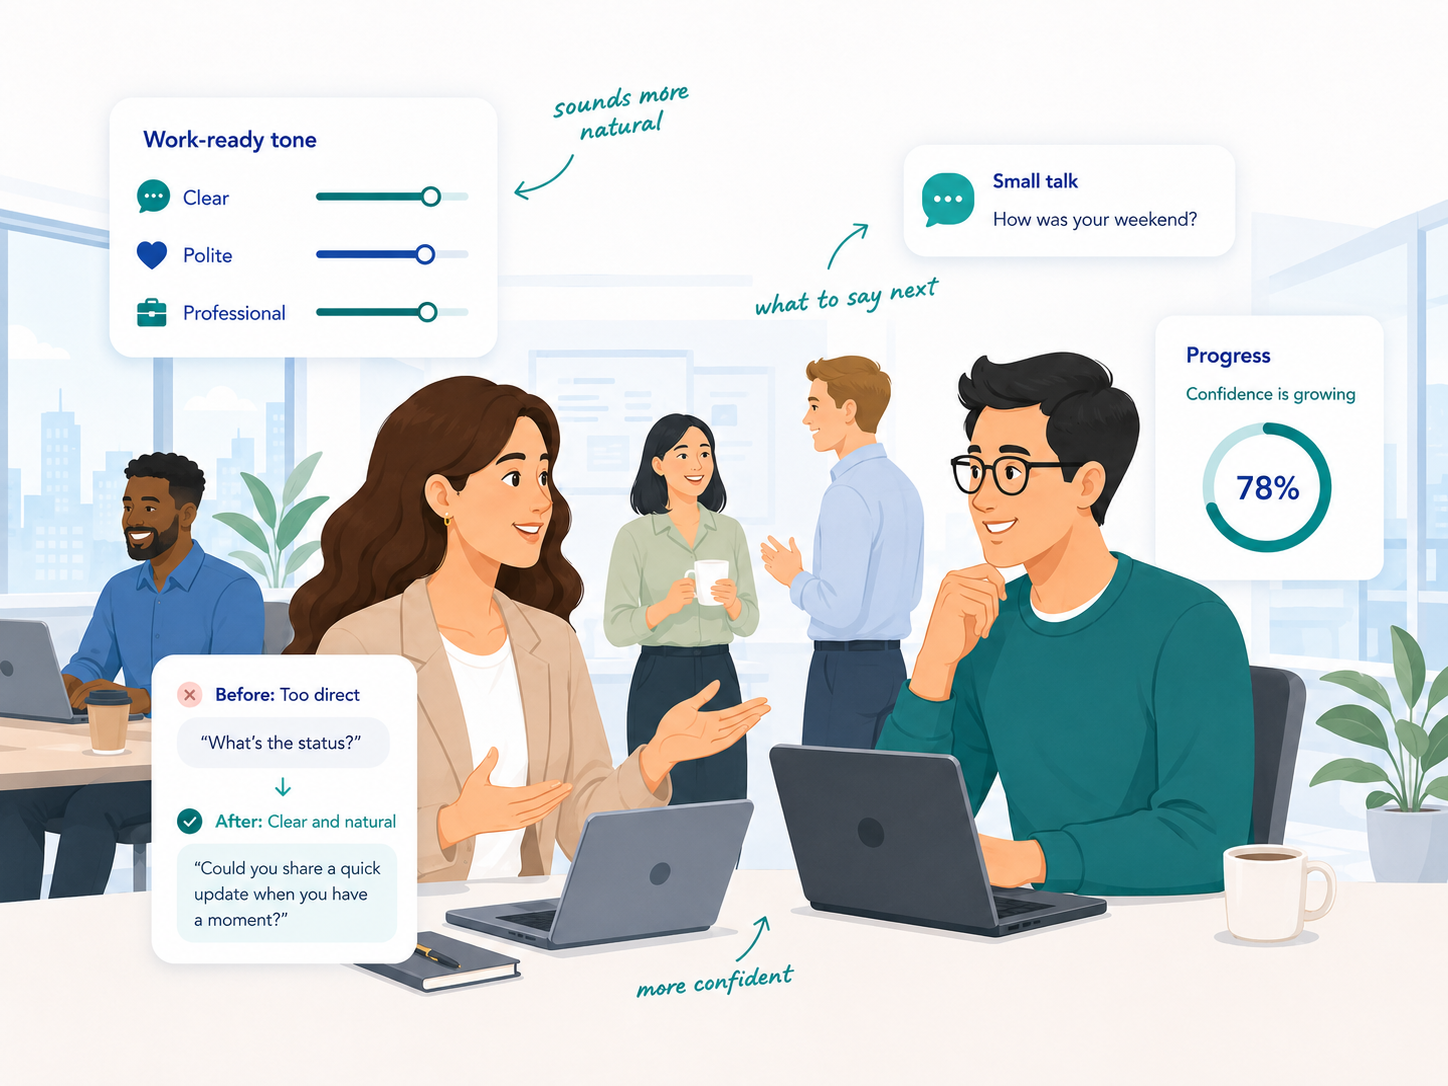
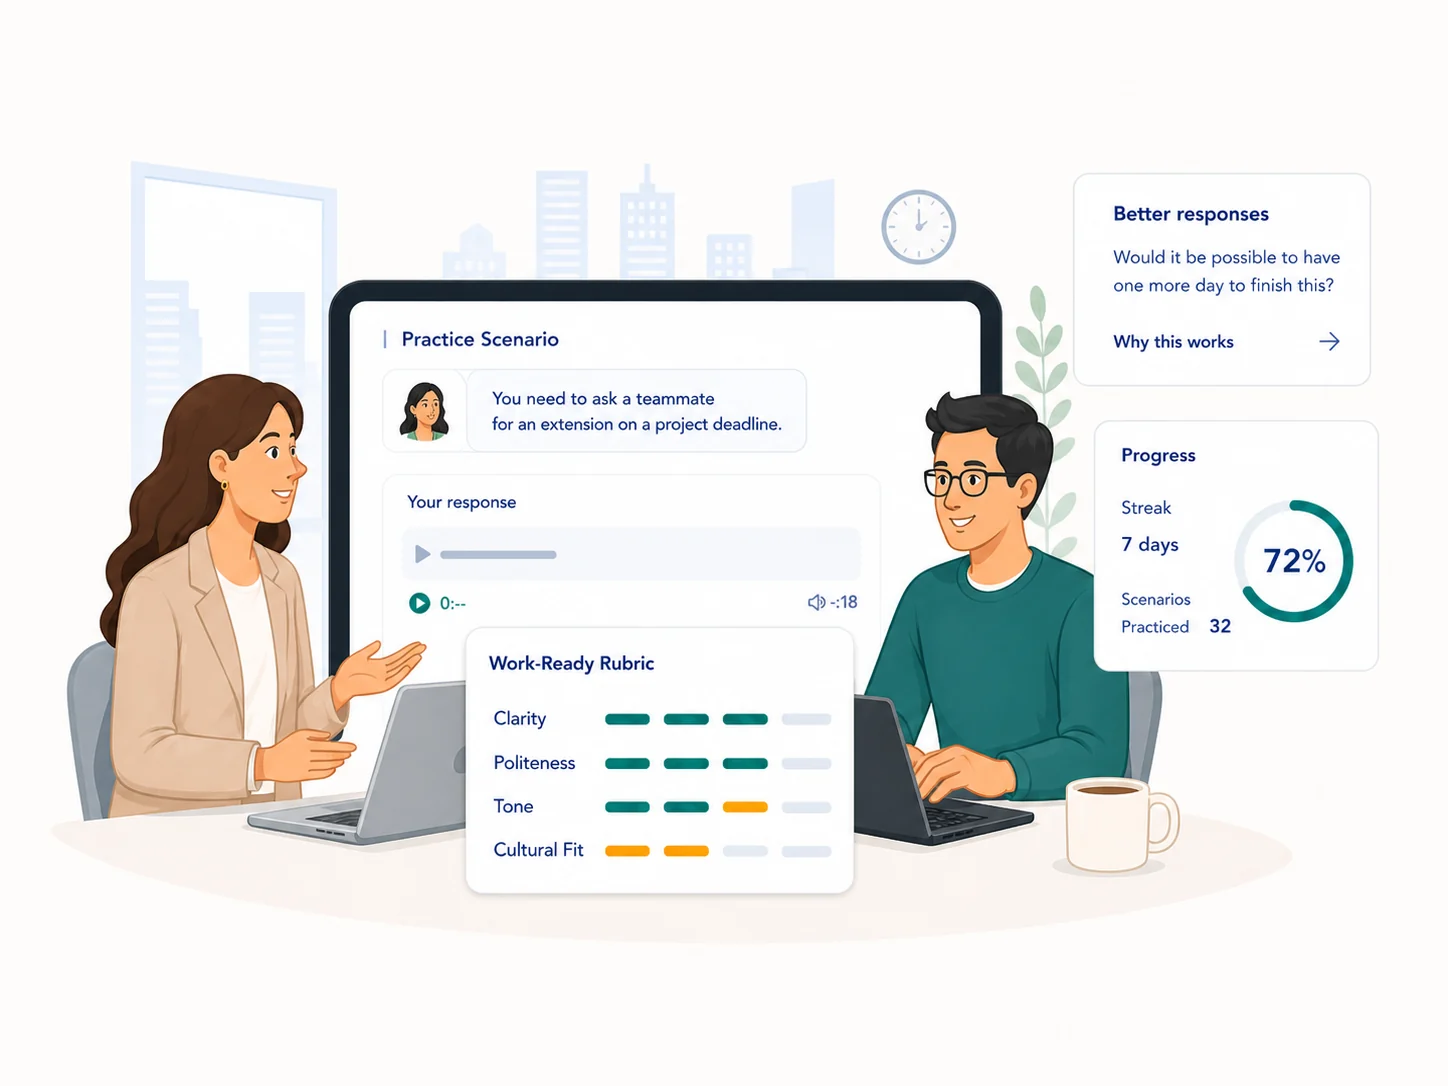
Add files via upload

diff --git a/index.html b/index.html
@@ -4,7 +4,7 @@
   <meta charset="utf-8">
   <meta name="viewport" content="width=device-width, initial-scale=1">
   <title>Workwise English | Workplace English Practice with Culture Notes</title>
-  <meta name="description" content="Practice workplace English for North American work culture. Learn what people really mean, what to say next, soft feedback, small talk, work-ready tone, and culture notes. Free for learners.">
+  <meta name="description" content="Practice workplace English for North American work culture. Learn what people really mean, what to say next, soft feedback, small talk, work-ready tone, and culture notes. Free for learners, no email login.">
   <link rel="canonical" href="https://workwise-english.vercel.app/">
   <meta name="robots" content="index,follow">
   <meta property="og:title" content="Workwise English">
@@ -73,6 +73,14 @@
           "@type": "Answer",
           "text": "Progress is saved in your browser. Use Export / Import if you want to back up or move your learning history."
         }
+      },
+      {
+        "@type": "Question",
+        "name": "Does Workwise English record or upload my voice?",
+        "acceptedAnswer": {
+          "@type": "Answer",
+          "text": "No. Workwise English includes text-to-speech for listening and shadowing, but it does not require voice upload."
+        }
       }
     ]
   }
@@ -123,6 +131,11 @@
       <div class="benefit-card"><span>🎧</span><strong>Text-to-Speech / Shadowing</strong></div>
       <div class="benefit-card"><span>✅</span><strong>Built from real workplace experience</strong></div>
     </div>
+    <div class="container">
+      <p class="definition-line">
+        Workwise English is a free workplace English practice app for learning North American workplace culture, soft feedback, and what to say next.
+      </p>
+    </div>
   </section>
 
   <section class="section section-sand" id="problems" aria-labelledby="problems-title">
@@ -145,7 +158,8 @@
       <div>
         <div class="eyebrow">Culture-first workplace English</div>
         <h2 id="difference-title">AI can correct a sentence. Workwise helps you handle the conversation.</h2>
-        <p>Practice small talk, softer requests, meetings, soft feedback, sandwich-style feedback, follow-ups, and what to say next in North American workplaces.</p>
+        <p>Practice small talk, softer requests, meetings, soft feedback, feedback responses, follow-ups, and what to say next in North American workplaces.</p>
+        <p class="small-trust-note">Built around real workplace communication challenges — not fake textbook conversations.</p>
       </div>
       <div class="feature-grid">
         <div class="mini-card"><div class="mini-icon">🧭</div><h3>What people mean</h3><p>Learn the hidden meaning behind workplace phrases and feedback.</p></div>
@@ -287,6 +301,10 @@
           <summary>How is my progress saved?</summary>
           <p>Your progress is saved in this browser. Use Export / Import if you want to back up your learning data or move it to another device.</p>
         </details>
+        <details>
+          <summary>Does Workwise English record or upload my voice?</summary>
+          <p>No. Workwise English includes text-to-speech for listening and shadowing, but it does not require voice upload.</p>
+        </details>
       </div>
     </div>
   </section>
@@ -296,11 +314,12 @@
       <div class="inner">
         <div>
           <h2>Start practicing workplace English today.</h2>
-          <p>One real scenario a day. Culture notes, model answers, text-to-speech, review, and progress tracking — free for learners.</p>
+          <p>One real scenario a day. Culture notes, model answers, text-to-speech, and review — free for learners.</p>
           <div class="cta-row">
             <a class="btn btn-primary" href="/app/" style="background:#fff;color:var(--teal-dark)">Start Free</a>
             <a class="btn btn-secondary" href="/practice/" style="background:transparent;color:#fff;border-color:rgba(255,255,255,.5)">Try a Scenario</a>
           </div>
+          <p class="cta-note">No signup. No credit card. Opens in your browser.</p>
         </div>
         <img src="/assets/images/lp/workwise-english-final-cta-workplace-practice.webp" alt="Professionals using Workwise English to practice workplace English and review useful phrases" width="900" height="670" loading="lazy">
       </div>

diff --git a/assets/css/style.css b/assets/css/style.css
@@ -1073,3 +1073,194 @@ h1, h2 {
     padding: 54px 0;
   }
 }
+
+
+/* ===== v4.1 production polish: image sizing, CTA balance, mobile first-view ===== */
+.definition-line {
+  max-width: 980px;
+  margin: 22px auto 0;
+  padding: 16px 20px;
+  border: 1px solid rgba(16,35,74,.08);
+  border-radius: 18px;
+  background: rgba(255,255,255,.76);
+  box-shadow: 0 12px 34px rgba(16,35,74,.045);
+  color: #43546f;
+  font-size: 15px;
+  line-height: 1.55;
+  text-align: center;
+}
+.small-trust-note {
+  margin-top: 18px;
+  padding: 14px 16px;
+  border-radius: 16px;
+  background: rgba(255,255,255,.62);
+  color: #43546f;
+  font-weight: 700;
+  line-height: 1.55;
+}
+.site-header .btn,
+.header-actions .btn,
+.hero-actions .btn,
+.final-cta .btn {
+  justify-content: center !important;
+  text-align: center !important;
+}
+.header-actions .btn {
+  height: 46px;
+  min-width: 118px;
+  padding: 0 22px;
+  border-radius: 14px;
+  font-size: 15px;
+  line-height: 1;
+}
+
+/* Make How it works cards feel designed, not stretched */
+.how-grid {
+  align-items: stretch;
+}
+.how-card {
+  overflow: hidden;
+  min-height: 0;
+}
+.how-card .image-zoom {
+  height: 320px;
+  max-height: 320px;
+  padding: 22px;
+  display: flex;
+  align-items: center;
+  justify-content: center;
+  background:
+    radial-gradient(circle at 50% 12%, rgba(17,134,141,.05), transparent 48%),
+    #fff;
+  overflow: hidden;
+}
+.how-card .image-zoom img {
+  width: auto;
+  height: auto;
+  max-width: 100%;
+  max-height: 100%;
+  object-fit: contain;
+}
+.how-card .content {
+  padding: 24px 26px 30px;
+  border-top: 1px solid rgba(16,35,74,.08);
+}
+.how-card .content h3 {
+  margin-bottom: 8px;
+}
+.how-card .content p {
+  margin-bottom: 0;
+  line-height: 1.62;
+}
+
+/* Final CTA: less heavy, better image proportion */
+.final-cta .inner {
+  align-items: center;
+  gap: clamp(24px, 4vw, 54px);
+}
+.final-cta .inner > div {
+  max-width: 680px;
+}
+.final-cta h2 {
+  font-size: clamp(34px, 4.3vw, 58px);
+  line-height: 1.04;
+  letter-spacing: -0.055em;
+}
+.final-cta p {
+  max-width: 760px;
+}
+.final-cta .cta-note {
+  margin: 12px 0 0;
+  color: rgba(255,255,255,.82);
+  font-size: 14px;
+  font-weight: 700;
+}
+.final-cta img {
+  width: min(42vw, 520px);
+  max-height: 430px;
+  object-fit: contain;
+  background: #fff;
+  border-radius: 26px;
+}
+
+/* FAQ readability */
+.faq-list details[open] {
+  border-color: rgba(17,134,141,.18);
+}
+
+/* Desktop refinement */
+@media (min-width: 1181px) {
+  .hero-v4-grid {
+    grid-template-columns: minmax(0, .84fr) minmax(610px, 1.16fr);
+  }
+  .hero-v4 .hero-copy {
+    max-width: 600px;
+  }
+}
+
+/* Tablet */
+@media (max-width: 980px) {
+  .how-card .image-zoom {
+    height: 280px;
+    max-height: 280px;
+  }
+  .final-cta img {
+    width: 100%;
+    max-width: 520px;
+    max-height: 360px;
+  }
+}
+
+/* Mobile polish */
+@media (max-width: 720px) {
+  .site-header {
+    position: sticky;
+    top: 0;
+    z-index: 40;
+    backdrop-filter: blur(14px);
+  }
+  .header-inner {
+    min-height: 58px;
+    gap: 10px;
+  }
+  .header-actions .btn {
+    height: 42px;
+    min-width: 94px;
+    padding: 0 13px;
+    font-size: 13px;
+    line-height: 1;
+  }
+  .hero-v4 {
+    padding-top: 18px;
+  }
+  .hero-v4-grid {
+    gap: 18px;
+  }
+  .hero-v4 .hero-visual-v4 img {
+    max-height: 360px;
+    object-fit: contain;
+  }
+  .definition-line {
+    margin-top: 16px;
+    padding: 13px 14px;
+    font-size: 13px;
+    text-align: left;
+  }
+  .how-card .image-zoom {
+    height: 240px;
+    max-height: 240px;
+    padding: 16px;
+  }
+  .how-card .content {
+    padding: 20px 20px 24px;
+  }
+  .final-cta .inner {
+    padding: 28px 22px;
+  }
+  .final-cta h2 {
+    font-size: 31px;
+  }
+  .final-cta img {
+    max-height: 280px;
+  }
+}

diff --git a/V4-SEO-AEO-NOTES.md b/V4-SEO-AEO-NOTES.md
@@ -22,3 +22,14 @@ This build includes the full LP improvement set discussed:
 Hero copy:
 Learn the culture behind workplace English.
 Understand what people really mean. Know what to say next. Work smoother. Grow further.
+
+
+## v4.1 updates
+
+- Reduced How it works image area height to prevent stretched/oversized cards.
+- Improved final CTA spacing and image sizing.
+- Added AEO definition line after Hero.
+- Added FAQ and JSON-LD for voice upload / text-to-speech.
+- Tightened CTA copy and added “No signup. No credit card. Opens in your browser.”
+- Reinforced culture-first copy consistency.
+- Improved header Start Free button centering and mobile sizing.
